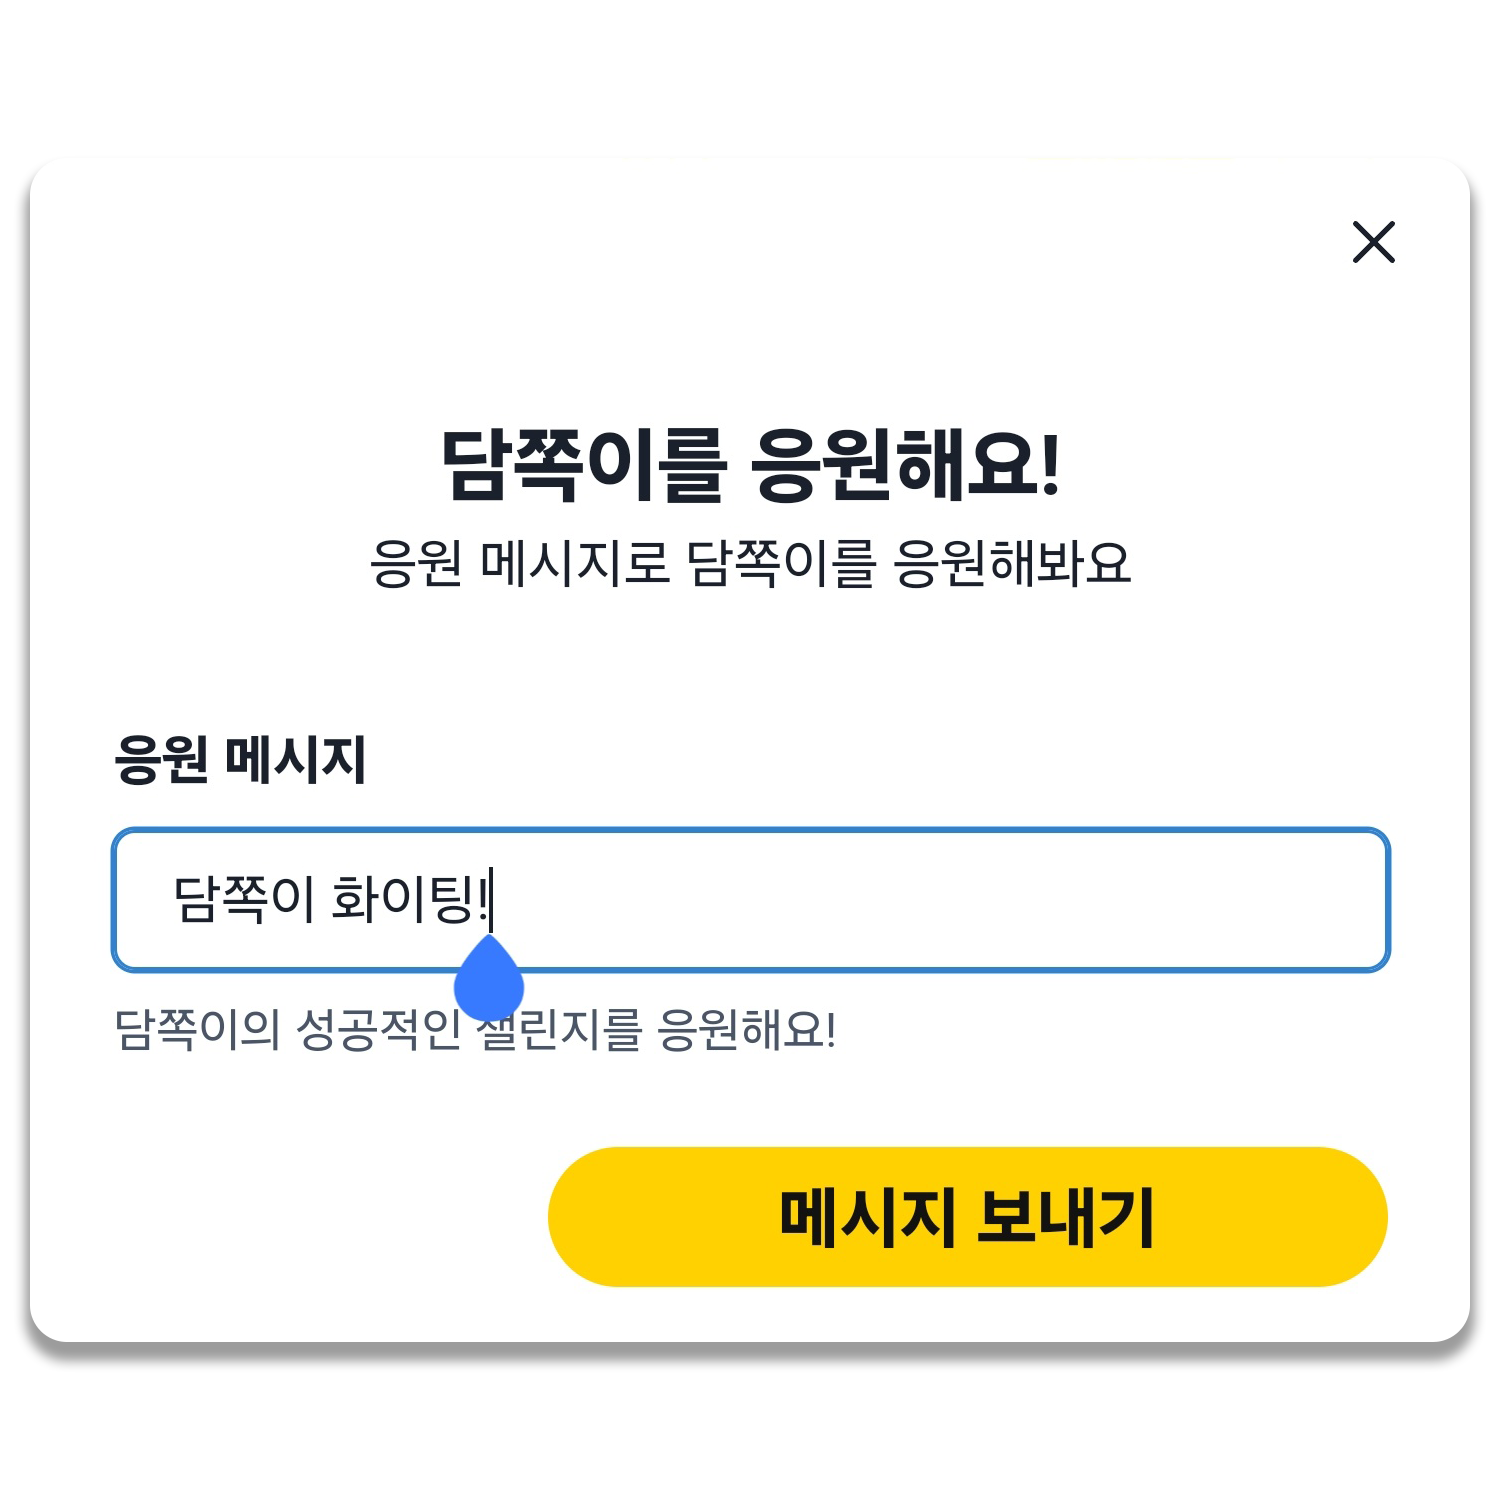
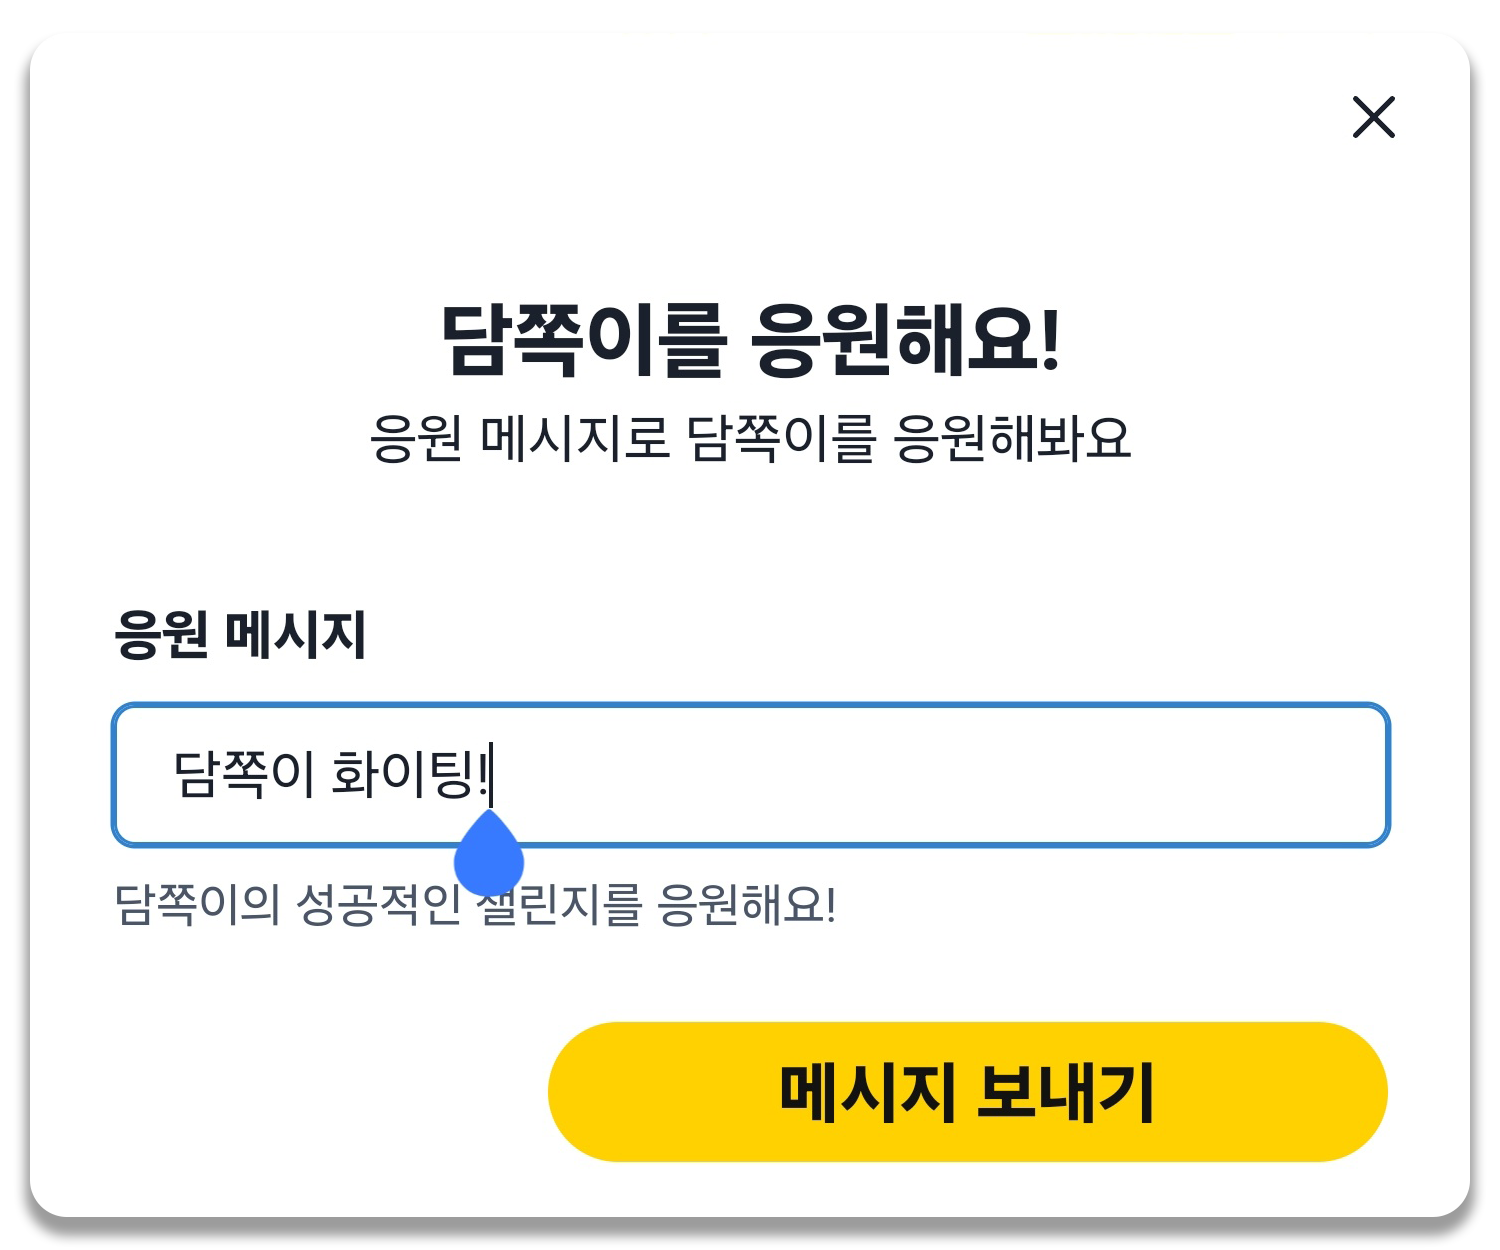
Fix : 사진 크기 조정

diff --git a/client/src/pages/landing-page/LandigPage.js b/client/src/pages/landing-page/LandigPage.js
@@ -428,7 +428,8 @@ const LandingPage = () => {
                                 src={mockup4}
                                 alt="설명"
                                 objectFit="cover"
-                                p={10}
+                                maxH="100%"
+                                maxW="100%"
                             />
                         </Box>
                         {/* 텍스트 영역 */}
